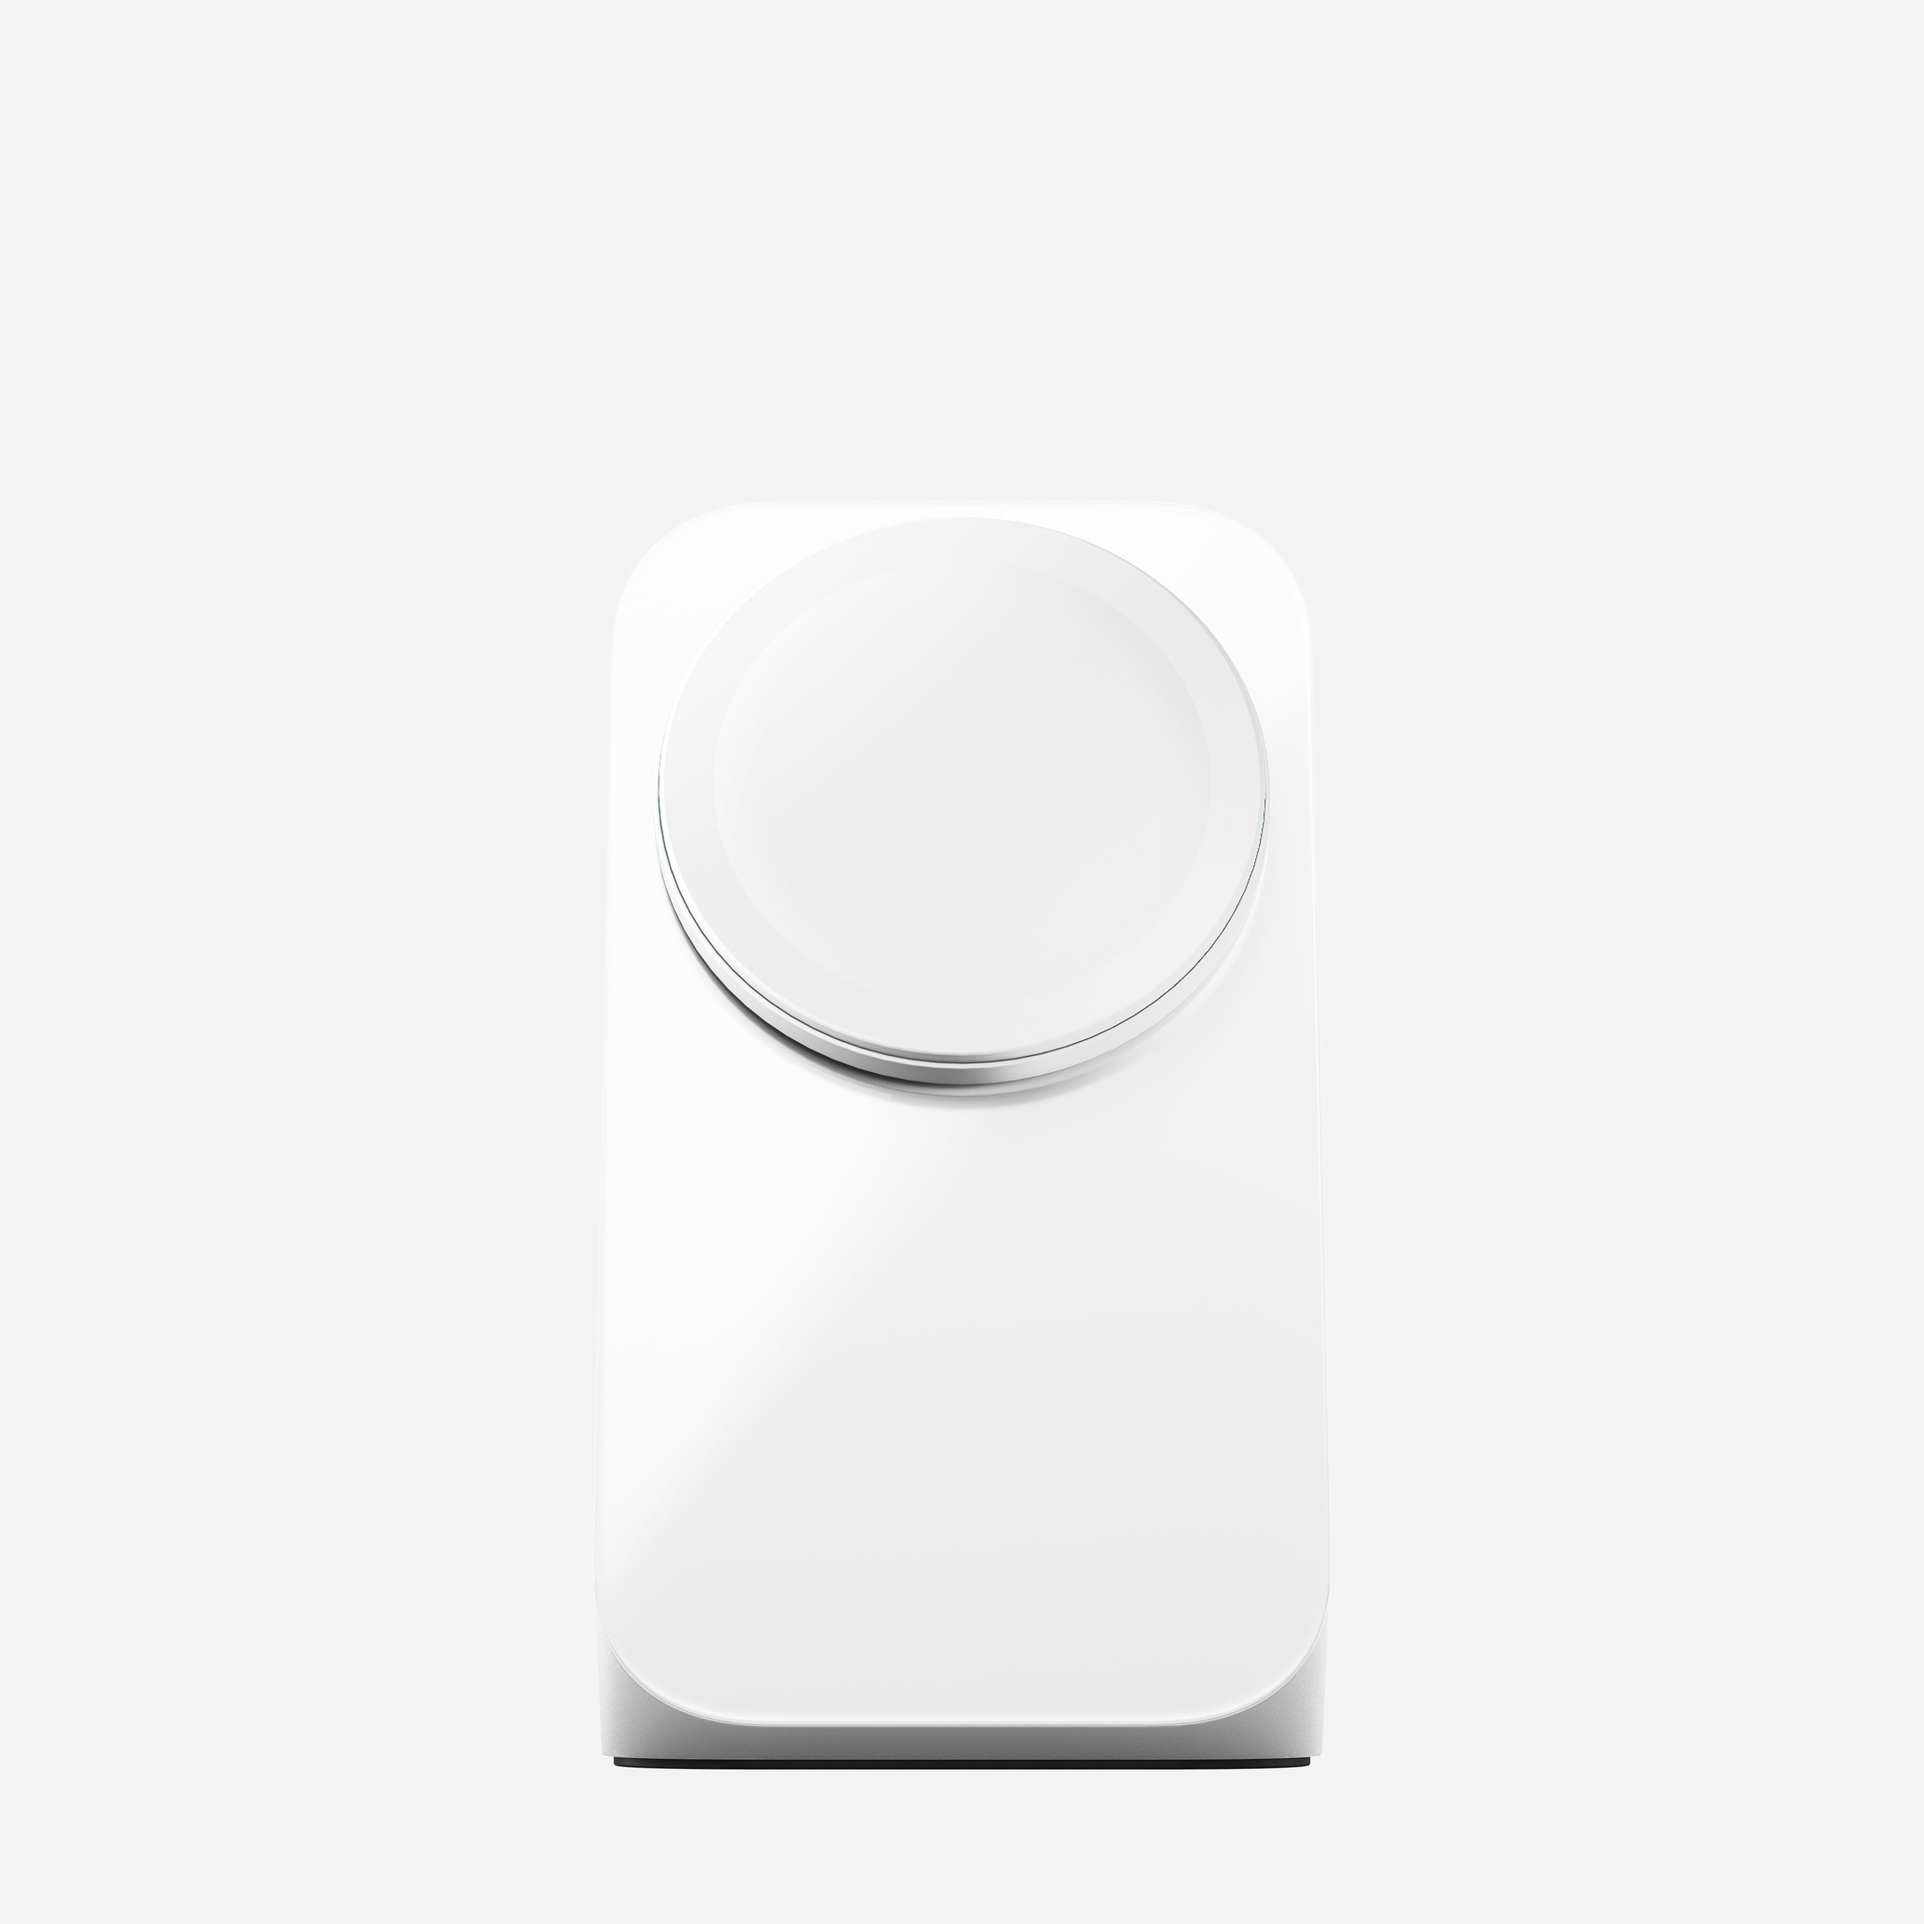
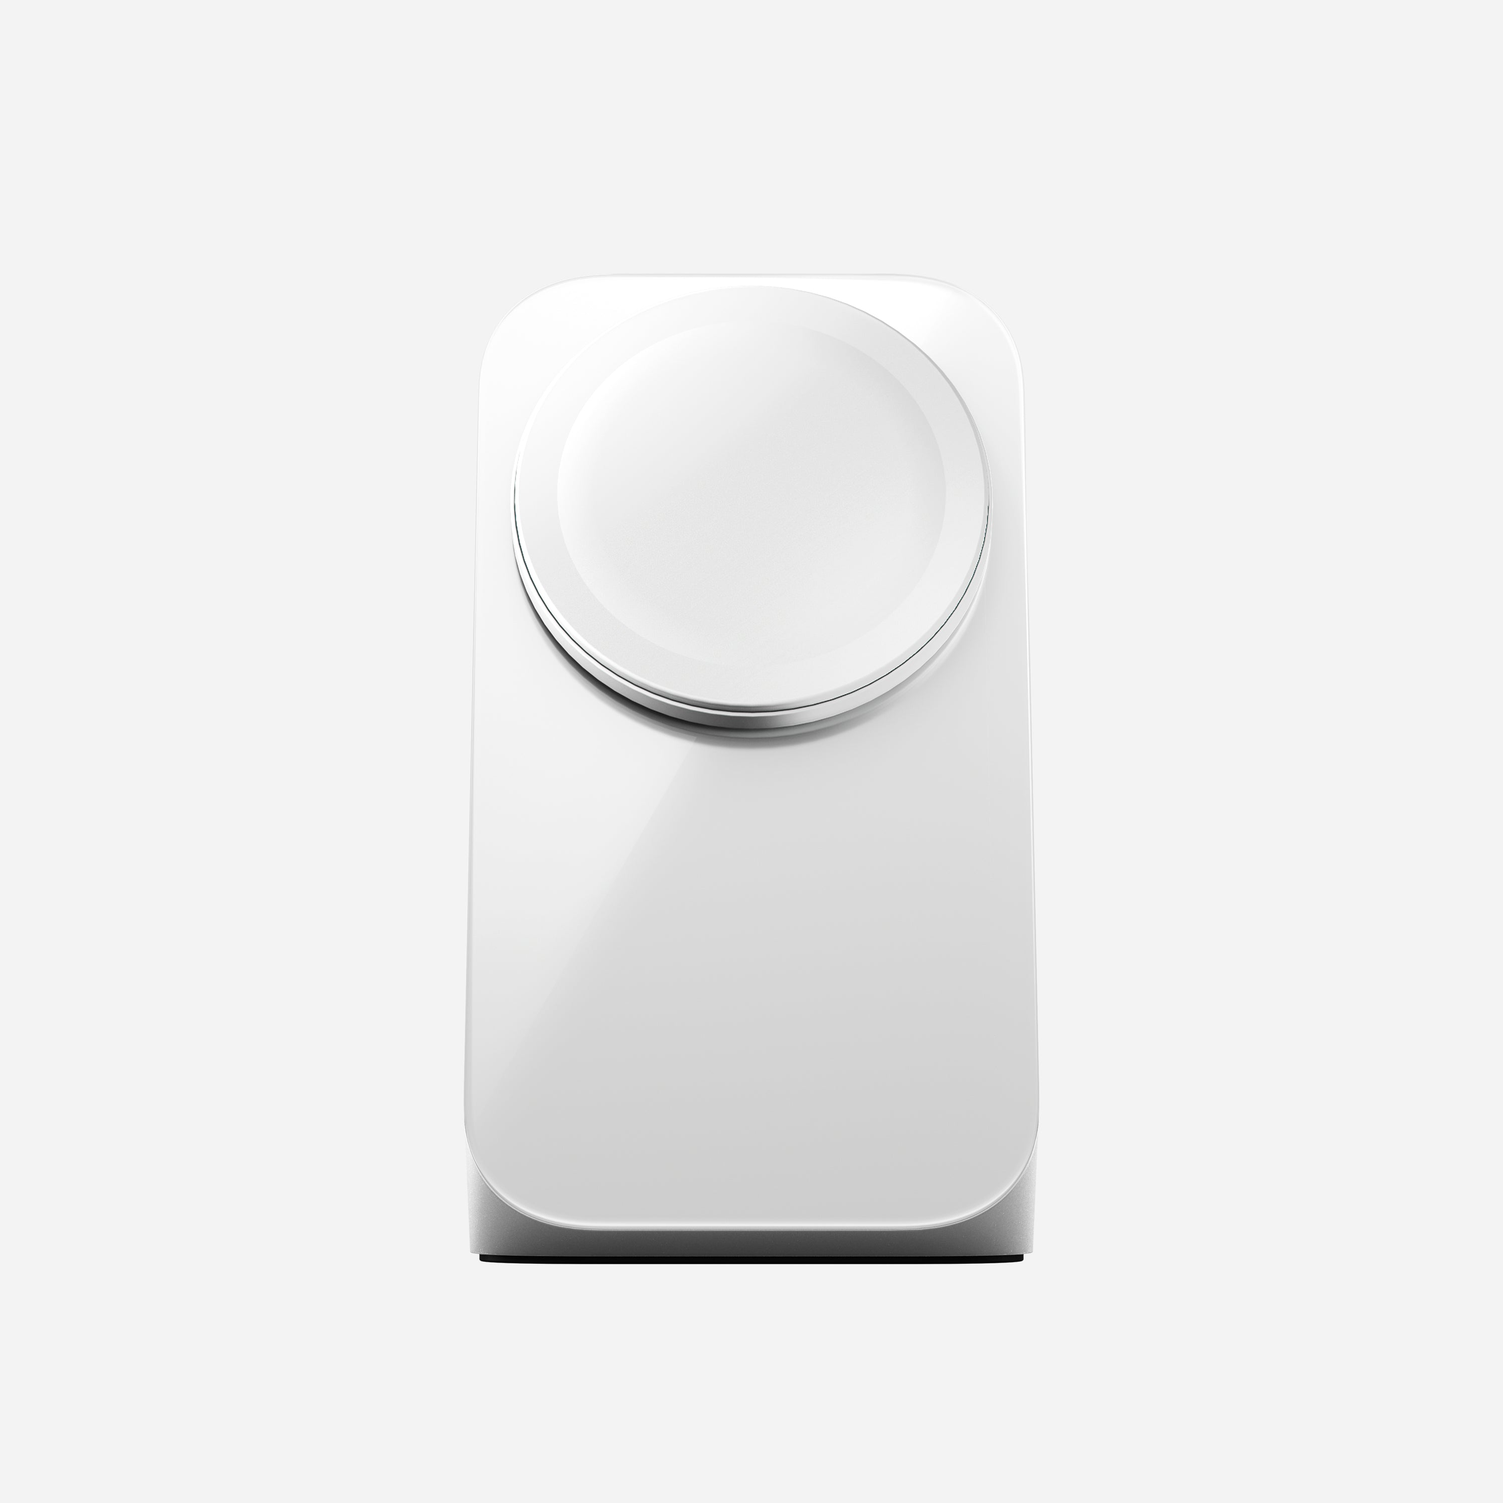
feat: add Nomad Stand One, update Deskhaus surface and Wire Snake images

diff --git a/workers/jb-gear/src/lib/data/gear.ts b/workers/jb-gear/src/lib/data/gear.ts
@@ -118,12 +118,12 @@ export const gearItems: GearItem[] = [
     description: "Standing desk frame",
   },
   {
-    name: "Deskhaus Butcher Block Surface",
+    name: "Deskhaus HPL Surface",
     category: Category.Desk,
     price: 399,
     image: "/gear/deskhaus-surface.png",
-    url: "https://desk.haus/",
-    description: "Solid wood desktop surface",
+    url: "https://desk.haus/products/high-pressure-laminate-surface",
+    description: "High pressure laminate desktop (Brite White)",
   },
   {
     name: "Deskhaus Wire Snake",
@@ -173,6 +173,14 @@ export const gearItems: GearItem[] = [
     image: "/gear/iphone-17-pro.png",
     url: "https://www.apple.com/iphone-17-pro/",
     description: '6.3" Pro smartphone (Deep Blue)',
+  },
+  {
+    name: "Nomad Stand One",
+    category: Category.Accessories,
+    price: 119,
+    image: "/gear/nomad-stand-one.png",
+    url: "https://nomadgoods.com/products/stand-one-4th-gen-silver",
+    description: "Qi2.2 wireless charging stand (Silver)",
   },
   {
     name: "iPhone Air MagSafe Battery",
